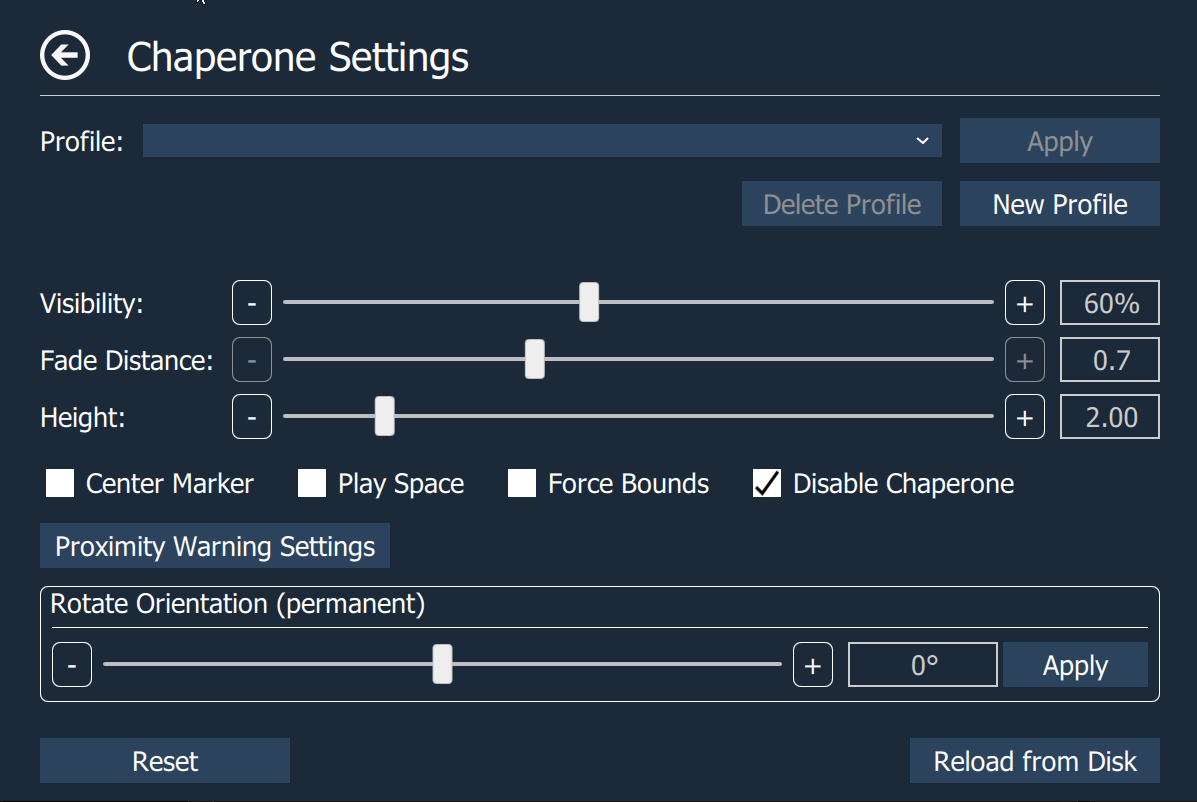
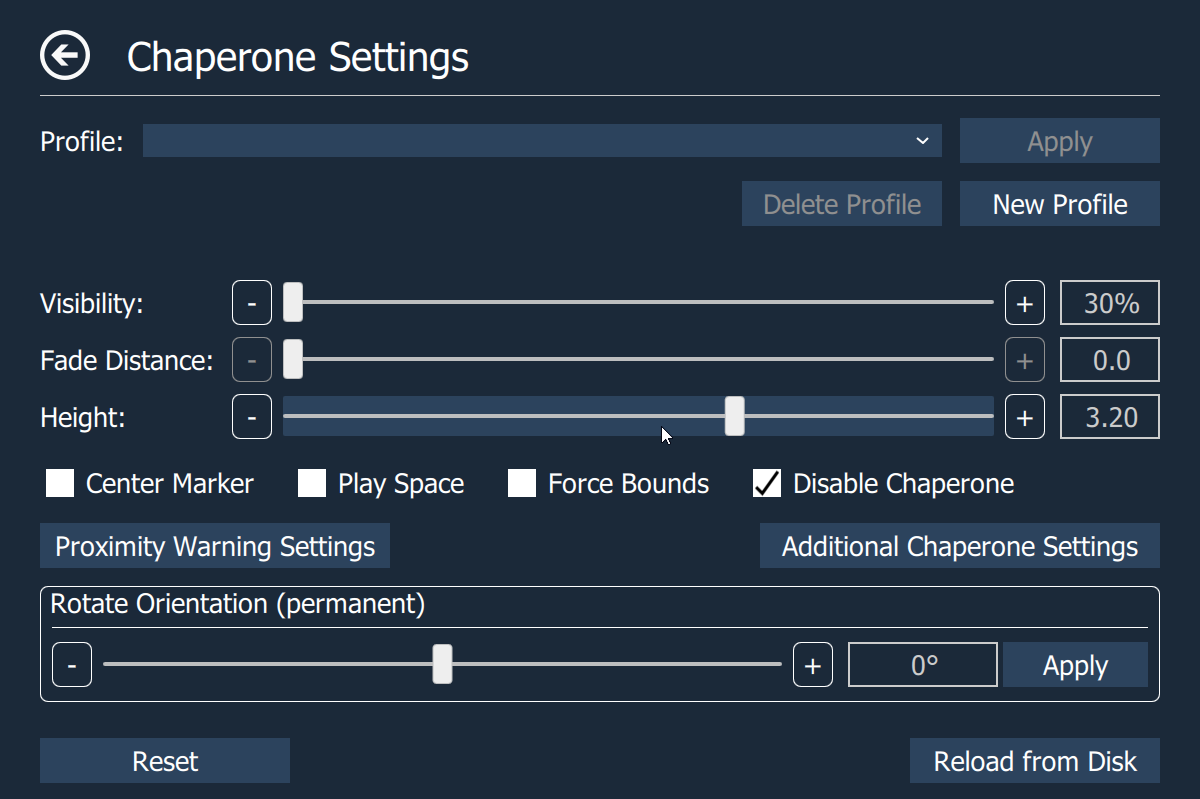
Keyboard And Documentation update (#469)
* changed action names

* updated settings for new action key

* updated keyboard input guide

* updated readme top

* updated appveyor link

* fixed qml issue and some formatting

* updated screenshots

* updated documentation portion of readme

* fix qml issues

diff --git a/src/res/qml/common/TimeAssembly.qml b/src/res/qml/common/TimeAssembly.qml
@@ -8,6 +8,7 @@ RowLayout {
 
     HourComboBox {
         id: hourBox
+        Layout.preferredWidth: 60
         onActivated: {
             parent.timeChanged(hourBox.currentIndex,
                                minuteBox.currentIndex,
@@ -20,6 +21,7 @@ RowLayout {
 
     MinuteSecondComboBox {
         id: minuteBox
+        Layout.preferredWidth: 60
         onActivated: {
             parent.timeChanged(hourBox.currentIndex,
                                minuteBox.currentIndex,
@@ -32,6 +34,7 @@ RowLayout {
 
     MinuteSecondComboBox {
         id: secondBox
+        Layout.preferredWidth: 60
         onActivated: {
             parent.timeChanged(hourBox.currentIndex,
                                minuteBox.currentIndex,
@@ -45,5 +48,8 @@ RowLayout {
         hourBox.currentIndex = hour
         minuteBox.currentIndex = minute
         secondBox.currentIndex = second
+        hourBox.displayText = hour
+        minuteBox.displayText = minute
+        secondBox.displayText = second
     }
 }

diff --git a/src/res/qml/utilities_page/alarm_clock/AlarmGroupBox.qml b/src/res/qml/utilities_page/alarm_clock/AlarmGroupBox.qml
@@ -10,7 +10,7 @@ GroupBox {
     
     label: MyText {
         leftPadding: 10
-        text: "Clock"
+        text: "Alarm Clock"
         bottomPadding: -10
     }
     background: Rectangle {
@@ -78,14 +78,14 @@ GroupBox {
 
                 MyPushButton2 {
                     text: "+5 Min"
-                    Layout.preferredWidth: 120
+                    Layout.preferredWidth: 110
                     onClicked: {
                         VrAlarm.modAlarmTime(0, 5, 0)
                     }
                 }
 
                 MyPushButton2 {
-                    Layout.preferredWidth: 120
+                    Layout.preferredWidth: 110
                     text: "-5 Min"
                     onClicked: {
                         VrAlarm.modAlarmTime(0, -5, 0)

diff --git a/src/res/qml/common/MyComboBox.qml b/src/res/qml/common/MyComboBox.qml
@@ -6,7 +6,6 @@ import "." // QTBUG-34418, singletons require explicit import to load qmldir fil
 ComboBox {
     id: myComboBox
     hoverEnabled: true
-
     background: Rectangle {
         color: parent.pressed ? "#406288" : (parent.activeFocus ? "#365473" : "#2c435d")
     }

diff --git a/src/res/qml/common/HourComboBox.qml b/src/res/qml/common/HourComboBox.qml
@@ -4,8 +4,7 @@ import QtQuick.Layouts 1.3
 import ovras.advsettings 1.0
 
 MyComboBox {
-    textRole: "text"
-    valueRole: "value"
+
     model: [
         { value: 0, text: "00" },
         { value: 1, text: "01" },

diff --git a/src/res/qml/common/MinuteSecondComboBox.qml b/src/res/qml/common/MinuteSecondComboBox.qml
@@ -4,8 +4,7 @@ import QtQuick.Layouts 1.3
 import ovras.advsettings 1.0
 
 MyComboBox {
-    textRole: "text"
-    valueRole: "value"
+
     model: [
         { value: 0, text: "00" },
         { value: 1, text: "01" },

diff --git a/src/overlaycontroller.cpp b/src/overlaycontroller.cpp
@@ -704,33 +704,33 @@ void OverlayController::processKeyboardBindings()
         sendStringAsInput( commands );
     }
     // Press Key One
-    if ( m_actions.keyboardPressOne() && !m_keyPressOneState )
+    if ( m_actions.keyPressMisc() && !m_keyPressOneState )
     {
         const auto commands = settings::getSetting(
-            settings::StringSetting::KEYBOARDSHORTCUT_keyboardPressOne );
+            settings::StringSetting::KEYBOARDSHORTCUT_keyPressMisc );
         sendFirstCharAsInput( commands, KeyStatus::Down );
         m_keyPressOneState = true;
     }
-    if ( m_keyPressOneState && !m_actions.keyboardPressOne() )
+    if ( m_keyPressOneState && !m_actions.keyPressMisc() )
     {
         const auto commands = settings::getSetting(
-            settings::StringSetting::KEYBOARDSHORTCUT_keyboardPressOne );
+            settings::StringSetting::KEYBOARDSHORTCUT_keyPressMisc );
         sendFirstCharAsInput( commands, KeyStatus::Up );
         m_keyPressOneState = false;
     }
 
     // Press Key Two
-    if ( m_actions.keyboardPressTwo() && !m_keyPressTwoState )
+    if ( m_actions.keyPressSystem() && !m_keyPressTwoState )
     {
         const auto commands = settings::getSetting(
-            settings::StringSetting::KEYBOARDSHORTCUT_keyboardPressTwo );
+            settings::StringSetting::KEYBOARDSHORTCUT_keyPressSystem );
         sendFirstCharAsInput( commands, KeyStatus::Down );
         m_keyPressTwoState = true;
     }
-    if ( m_keyPressTwoState && !m_actions.keyboardPressTwo() )
+    if ( m_keyPressTwoState && !m_actions.keyPressSystem() )
     {
         const auto commands = settings::getSetting(
-            settings::StringSetting::KEYBOARDSHORTCUT_keyboardPressTwo );
+            settings::StringSetting::KEYBOARDSHORTCUT_keyPressSystem );
         sendFirstCharAsInput( commands, KeyStatus::Up );
         m_keyPressTwoState = false;
     }

diff --git a/src/settings/internal/settings_controller.h b/src/settings/internal/settings_controller.h
@@ -481,7 +481,7 @@ private:
     constexpr static auto stringSettingsSize
         = static_cast<int>( StringSetting::LAST_ENUMERATOR ) + 1;
     constexpr static auto discordDefaultMuteKeybinding = "^>m";
-    constexpr static auto pressDefaultOne = "F9";
+    constexpr static auto pressDefault = "F9";
     std::array<StringSettingValue, stringSettingsSize> m_stringSettings{
         StringSettingValue{ StringSetting::KEYBOARDSHORTCUT_keyboardOne,
                             SettingCategory::KeyboardShortcut,
@@ -495,14 +495,14 @@ private:
                             SettingCategory::KeyboardShortcut,
                             QtInfo{ "keyboardThree" },
                             discordDefaultMuteKeybinding },
-        StringSettingValue{ StringSetting::KEYBOARDSHORTCUT_keyboardPressOne,
+        StringSettingValue{ StringSetting::KEYBOARDSHORTCUT_keyPressMisc,
                             SettingCategory::KeyboardShortcut,
-                            QtInfo{ "keyboardPressOne" },
-                            pressDefaultOne },
-        StringSettingValue{ StringSetting::KEYBOARDSHORTCUT_keyboardPressTwo,
+                            QtInfo{ "keyPressmisc" },
+                            pressDefault },
+        StringSettingValue{ StringSetting::KEYBOARDSHORTCUT_keyPressSystem,
                             SettingCategory::KeyboardShortcut,
-                            QtInfo{ "keyboardPressTwo" },
-                            pressDefaultOne },
+                            QtInfo{ "keyPressSystem" },
+                            pressDefault },
     };
 
     constexpr static auto intSettingsSize

diff --git a/src/openvr/ivrinput.h b/src/openvr/ivrinput.h
@@ -55,8 +55,8 @@ namespace action_keys
     constexpr auto keyboardOne = "/actions/misc/in/KeyboardOne";
     constexpr auto keyboardTwo = "/actions/misc/in/KeyboardTwo";
     constexpr auto keyboardThree = "/actions/misc/in/KeyboardThree";
-    constexpr auto keyboardPressOne = "/actions/misc/in/KeyboardPressOne";
-    constexpr auto keyboardPressTwo = "/actions/misc/in/KeyboardPressTwo";
+    constexpr auto keyPressMisc = "/actions/misc/in/KeyPressMisc";
+    constexpr auto keyPressSystem = "/actions/system/in/KeyPressSystem";
 
     constexpr auto hapticsLeft = "/actions/haptic/out/HapticsLeft";
     constexpr auto hapticsRight = "/actions/haptic/out/HapticsRight";
@@ -160,8 +160,8 @@ public:
     bool keyboardOne();
     bool keyboardTwo();
     bool keyboardThree();
-    bool keyboardPressOne();
-    bool keyboardPressTwo();
+    bool keyPressMisc();
+    bool keyPressSystem();
 
     vr::VRActionHandle_t leftHapticActionHandle();
     vr::VRActionHandle_t rightHapticActionHandle();
@@ -229,8 +229,8 @@ private:
     DigitalAction m_keyboardOne;
     DigitalAction m_keyboardTwo;
     DigitalAction m_keyboardThree;
-    DigitalAction m_keyboardPressOne;
-    DigitalAction m_keyboardPressTwo;
+    DigitalAction m_keyPressMisc;
+    DigitalAction m_keyPressSystem;
 
     // Misc Bindings
     DigitalAction m_chaperoneToggle;

diff --git a/src/openvr/ivrinput.cpp b/src/openvr/ivrinput.cpp
@@ -138,8 +138,8 @@ SteamIVRInput::SteamIVRInput()
       m_keyboardOne( action_keys::keyboardOne ),
       m_keyboardTwo( action_keys::keyboardTwo ),
       m_keyboardThree( action_keys::keyboardThree ),
-      m_keyboardPressOne( action_keys::keyboardPressOne ),
-      m_keyboardPressTwo( action_keys::keyboardPressTwo ),
+      m_keyPressMisc( action_keys::keyPressMisc ),
+      m_keyPressSystem( action_keys::keyPressSystem ),
       m_chaperoneToggle( action_keys::chaperoneToggle ),
       m_pushToTalk( action_keys::pushToTalk ),
       m_leftHaptic( action_keys::hapticsLeft ),
@@ -351,13 +351,13 @@ bool SteamIVRInput::keyboardThree()
 {
     return isDigitalActionActivatedOnce( m_keyboardThree );
 }
-bool SteamIVRInput::keyboardPressOne()
+bool SteamIVRInput::keyPressMisc()
 {
-    return isDigitalActionActivatedConstant( m_keyboardPressOne );
+    return isDigitalActionActivatedConstant( m_keyPressMisc );
 }
-bool SteamIVRInput::keyboardPressTwo()
+bool SteamIVRInput::keyPressSystem()
 {
-    return isDigitalActionActivatedConstant( m_keyboardPressTwo );
+    return isDigitalActionActivatedConstant( m_keyPressSystem );
 }
 
 /*!

diff --git a/src/settings/settings.h b/src/settings/settings.h
@@ -90,10 +90,10 @@ enum class StringSetting
     KEYBOARDSHORTCUT_keyboardOne,
     KEYBOARDSHORTCUT_keyboardTwo,
     KEYBOARDSHORTCUT_keyboardThree,
-    KEYBOARDSHORTCUT_keyboardPressOne,
-    KEYBOARDSHORTCUT_keyboardPressTwo,
+    KEYBOARDSHORTCUT_keyPressMisc,
+    KEYBOARDSHORTCUT_keyPressSystem,
     // LAST_ENUMERATOR must always be set to the last value
-    LAST_ENUMERATOR = KEYBOARDSHORTCUT_keyboardPressTwo,
+    LAST_ENUMERATOR = KEYBOARDSHORTCUT_keyPressSystem,
 };
 
 enum class IntSetting

diff --git a/src/tabcontrollers/SettingsTabController.h b/src/tabcontrollers/SettingsTabController.h
@@ -27,7 +27,6 @@ private:
     OverlayController* parent;
 
     bool m_autoStartEnabled = false;
-    bool m_nativeChaperoneToggle = false;
 
 public:
     void initStage1();

diff --git a/Readme.md b/Readme.md
@@ -21,6 +21,7 @@ Adds an overlay to the OpenVR dashboard that allows access to advanced settings 
      * [AppImage](#appimage)
      * [Arch/Manjaro](#archmanjaro)
      * [Building from Source](#building-from-source)
+  * [Guides](#guides)
   * [Bindings](#bindings)
      * [Music](#music)
      * [Motion](#motion)
@@ -33,7 +34,6 @@ Adds an overlay to the OpenVR dashboard that allows access to advanced settings 
      * [WMR](#wmr)
 	 * [Touch](#touch)
      * [Other Controllers](#other-controllers)
-  * [SteamVR Input Guide](#steamvr-input-guide)
   * [Command Line Arguments](#command-line-arguments)
   * [INI File Options](#ini-file-options)
   * [Preview builds](#preview-builds)
@@ -80,7 +80,8 @@ Do all this without leaving VR:
 - Advanced Space Features: gravity, space-turn, and space-drag
 - Control media players (Pause/Play, Next Song, Previous Song, Stop).
 - Send keyboard inputs (like Alt+Tab, Alt+Enter, Backspace, etc.).
-- Bind VR controller buttons to send keyboard inputs (for example to mute VOIP applications while in VR). [Tutorial](docs/keyboard_input_guide.md).
+- Bind VR controller buttons to send keyboard inputs (for example to mute VOIP applications while in VR).
+- Center Marker with rotation indicator.
 - All the above also available from a window on the desktop.
 
 # Usage
@@ -120,9 +121,23 @@ Manjaro users can [enable](https://wiki.manjaro.org/index.php/Arch_User_Reposito
 
 Detailed instructions are available [here](docs/building_for_linux.md).
 
+## Guides
+
+### Overall Feature Overview Guides
+
+- [Kung's 3.0 New Feature Guide (video/youtube)[https://youtu.be/2ZHdjOfnqOU)]
+
+### SteamVR Input System (keybinds for app)
+
+- [Steam VR Input System (text)](docs/SteamVRInputGuide.md)
+
+### Keyboard Binding System
+
+- [Keyboard Input Guide (text)](docs/keyboard_input_guide.md)
+
 ## Bindings
 
-For information on how to properly set-up bindings see: [SteamVR Input Guide](#steamvr-input-guide)
+For information on how to properly set-up bindings see: [SteamVR Input System Guide](#guides)
 
 The following actions currently exist:
 ### Music
@@ -174,10 +189,10 @@ Actions that don't have a clear category.
 | Y-Axis Lock Toggle | Binary/Button | Toggles the lock of the Y-Axis for offsets.|
 | Z-Axis Lock Toggle | Binary/Button | Toggles the lock of the Z-Axis for offsets.|
 | Chaperone Toggle | Binary/Button | Toggles the chaperone on/off. |
-| Push to Talk | Binary/Button |  Acts as starter for PTT, can mute if push-to-mute is selected.|
 | Keyboard Shortcut One | Binary/Button | Sends the key sequence defined the the settings file. Defaults to Ctrl+Shift+M (Discord default toggle mute). |
 | Keyboard Shortcut Two | Binary/Button | Sends the key sequence defined the the settings file. This has no default sequence. |
 | Keyboard Shortcut Three | Binary/Button | Sends the key sequence defined the the settings file. This has no default sequence. |
+| Key Press Misc | Binary/Button | Sends the key press defined in the settings file. Defaults to F9 |
 
 
 ### System.
@@ -187,8 +202,10 @@ Actions That will stay active regardless of the situation.
 
 |    Action     |     Type      |  Explanation  |
 | ------------- | ------------- |  ------------ |
+| Push to Talk | Binary/Button |  Acts as starter for PTT, can mute if push-to-mute is selected.|
 | Add Left Haptic Click | Binary/Button | simulates a "click" with controller haptics. (left hand)
 | Add Right Haptic Click | Binary/Button | simulates a "click" with controller haptics. (right hand)
+| Key Press System | Binary/Button | Sends the key press defined in the settings file. Defaults to F9 |
 
 ### Haptics.
 
@@ -247,12 +264,6 @@ These Actions are Hidden, They are bound by default. They allow the application 
 No current default bindings you will have to make your own.
 
 
-## SteamVR Input Guide
-
-A Guide to the SteamVR Input System can be found [here](docs/SteamVRInputGuide.md)
-
-**Or** a Video guide by Kung can be found [here](https://youtu.be/2ZHdjOfnqOU)
-
 ## Command Line Arguments
 
 The application (`AdvancedSettings.exe`) can be run with the following optional arguments:
@@ -266,6 +277,8 @@ The application (`AdvancedSettings.exe`) can be run with the following optional 
 `"--force-install-manifest"`: Force installs the `.vrmanifest` and adds the application to autostart. If you're having issues with autostart not working try running the program once with this set. The program will exit early when this flag is set.
 
 `"--force-remove-manifest"`: Force uninstalls the `.vrmanifest`. This should be done every time the application is uninstalled. On Windows it is automatically done by the uninstaller. The program will exit early when this flag is set.
+
+`"--reset-steamvr-settings"`: Resets the SteamVR settings we adjust to Steam's Default Values.
 
 ## INI File Options
 
@@ -285,7 +298,7 @@ Under `[applicationSettings]` adding `enableDebug=true` will show a "Debug State
 
 ## Preview builds
 
-If you want to try latest and greatest unreleased features, you can download the latest from the CI (Continuous Integration) server for [Windows](https://ci.appveyor.com/project/icewind1991/openvr-advancedsettings/branch/master) and [Linux](https://circleci.com/gh/OpenVR-Advanced-Settings/OpenVR-AdvancedSettings) (`gcc` build, CircleCI issue requires login to see artifact tab).
+If you want to try latest and greatest unreleased features, you can download the latest from the CI (Continuous Integration) server for [Windows](https://ci.appveyor.com/project/OVRAdvancedSettings/openvr-advancedsettings/branch/master)and [Linux](https://circleci.com/gh/OpenVR-Advanced-Settings/OpenVR-AdvancedSettings) (`gcc` build, CircleCI issue requires login to see artifact tab).
 
 These version are not stable and this should be considered for advanced users only.
 
@@ -315,7 +328,6 @@ These version are not stable and this should be considered for advanced users on
   - **Camera for Bounds**: Your camera view will replace your vr view as you near/exit chaperone
   - **Camera for Dashboard**: You will have a small camera view attached to your controller when you have the dashboard active.
   - **Camera for Room View**: You will have a Tron/Shadow version of the room when double-clicking system button.
-- **Desktop Overlay Width**: Adjusts teh width of Steam's desktop overlay.
 - **Restart SteamVR**: Restart SteamVR (May crash the Steam overlay when SteamVR Home is running when you restart. Therefore I advice that you close SteamVR Home before restarting).
 
 ## - Chaperone Page
@@ -334,6 +346,17 @@ These version are not stable and this should be considered for advanced users on
 - **Rotate Orientation**: Rotates the orientation by a set amount.
 - **Reload from Disk**: Reloads the chaperone bounds geometry from disk.
 
+## - Additional Chaperone Settings Page
+
+<img src="docs/screenshots/ChaperoneAdditionalPage.png" width="600" alt="Chaperone Additional Page">
+
+- **Chaperone Color**: Adjust the R, G, and B color channels of the chaperone.
+- **Chaperone Styles**: Adjust the appearance of the Chaperone.
+- **Misc:**
+  - **Floor Bounds Always On**: Forces floor bounds to always show.
+  - **Legacy Center Marker**: Old Center Marker, does not move with motion or indicate rotation.
+  - **Reset Turn Counter**: Re-zero's turn counter for center marker turn indicators, based on current HMD orientation.
+  
 ## - Chaperone Proximity Warning Settings Page
 
 <img src="docs/screenshots/ChaperoneWarningPage.png" width="600" alt="Chaperone Proximity Warning Settings Page">
@@ -486,7 +509,10 @@ Allows users to temporarily move and rotate the center of the playspace. This al
 - **Enable Motion Features When in Seated Mode:** Uncheck this if Advanced Settings causes strange positioning in a seated application. (Different apps handle seated mode in different ways, some are less compatible with Advanced Settings). Note: if unchecked, all Space Offsets and Motion tab features will be disabled.
 - **Disable Automatic Crash Recovery of Chaperone Config:** This prevents applying of the last good autosaved chaperone profile when starting up after not shutting down properly.
 - **Disable Notification of Newer Version Availability**: This turns off the on start-up check for a new version. (You can refresh this to do a manual check.)
+- **Force Use SteamVR Chaperone**: This feature is currently experimental, when using third party headsets this will allow you to use SteamVR's chaperone, as if it was a native headset.
+- **Force Use SteamVR (Disable Oculus API)**: This feature is currently experimental, it should disable Oculus API preventing games with both SteamVR and Oculus API to only run as SteamVR
 - **Disable App Vsync:** Allows setting a custom base update rate for Advanced Settings. (Might be useful on HMDs with very high or very low refresh rates).
+- **Shutdown OVRAS** Shuts-Down Advanced Settings without closing out of VR.
 
 # How to Compile
 
